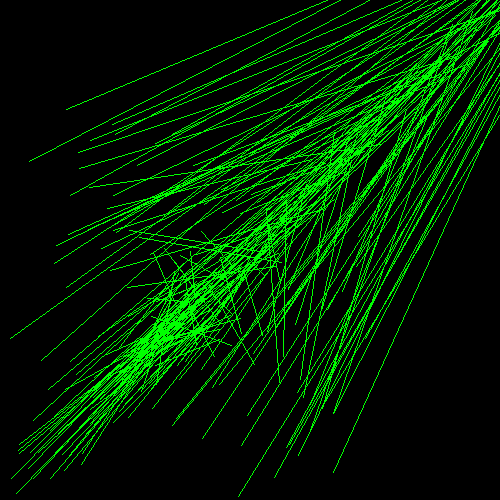
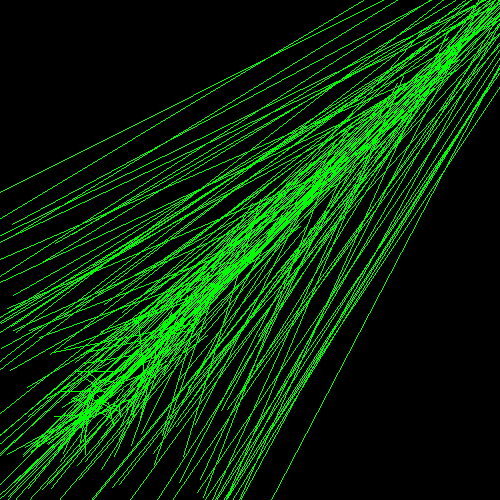
2

diff --git a/main.py b/main.py
@@ -33,9 +33,9 @@ print_matrix(matrix2)
 
 clear_screen(screen)
 matrix = new_matrix(0)
-x, y, z = 200, 200, 1
+x, y, z = 100, 100, 1
 for i in range(200):
-	add_edge(matrix, x, y, z, int( i * math.sin(i/math.pi)) + 200, int( i * math.cos(i)) + 200 , 1)
+	add_edge(matrix, x, y, z, int( i * math.sin(i/math.pi)) + 100, int( i * math.cos(i)) + 100 , 1)
 	x = int( i*math.pi ) + random.randrange(50)
 	y = int( i*math.pi ) + random.randrange(50)
 	z = 1
